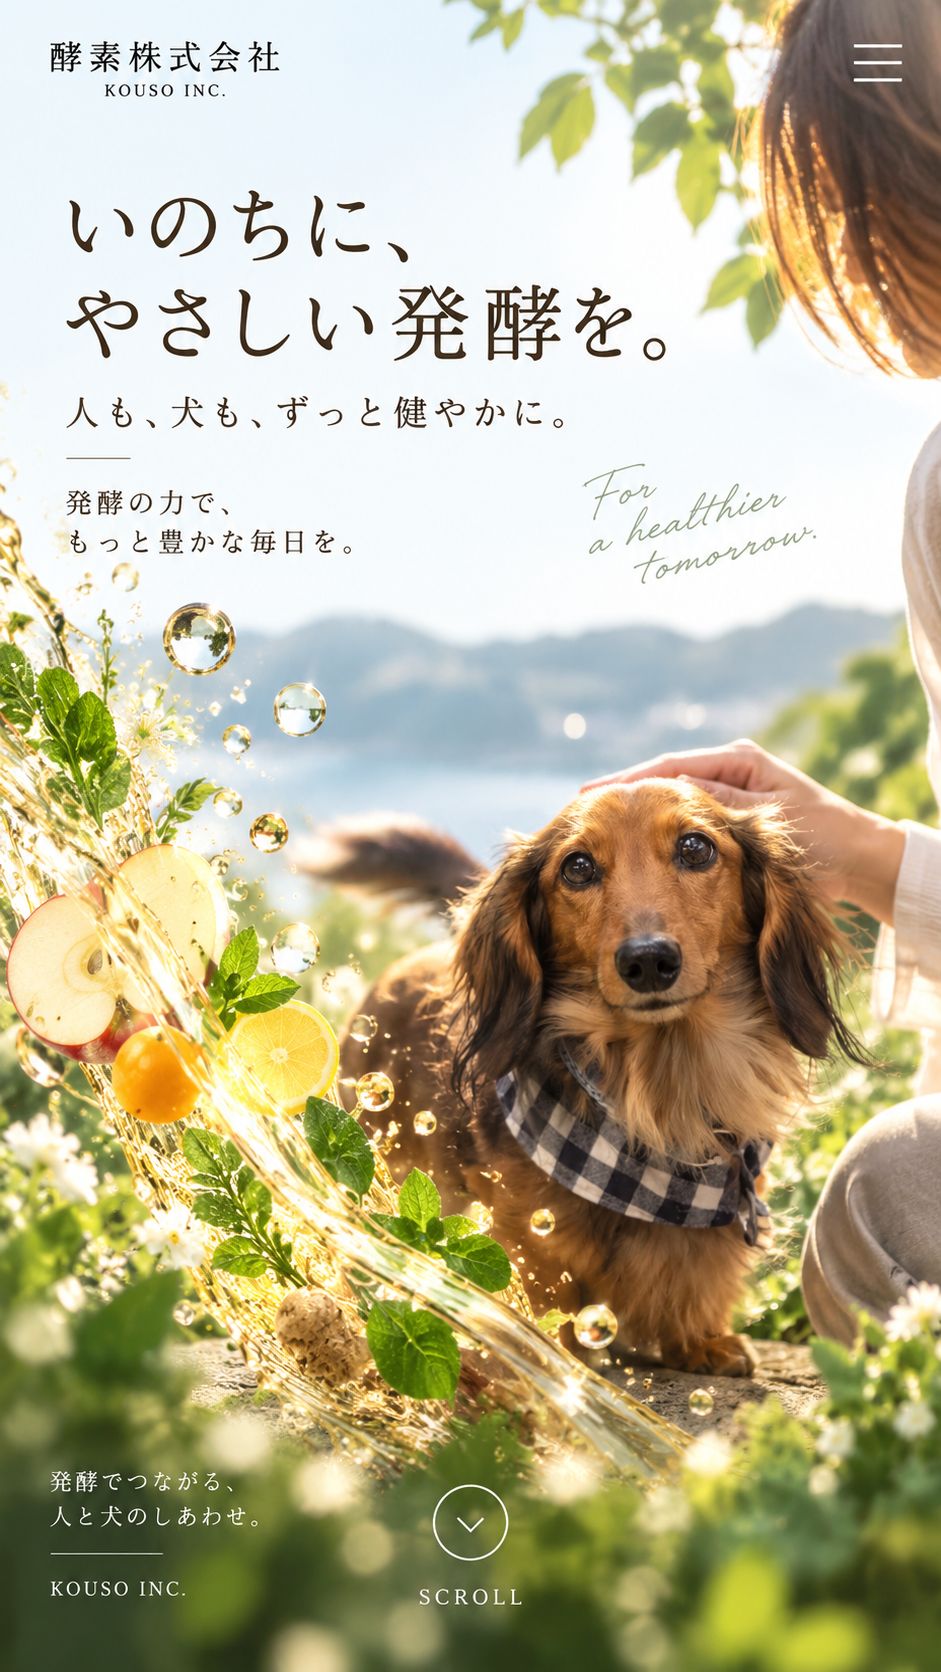
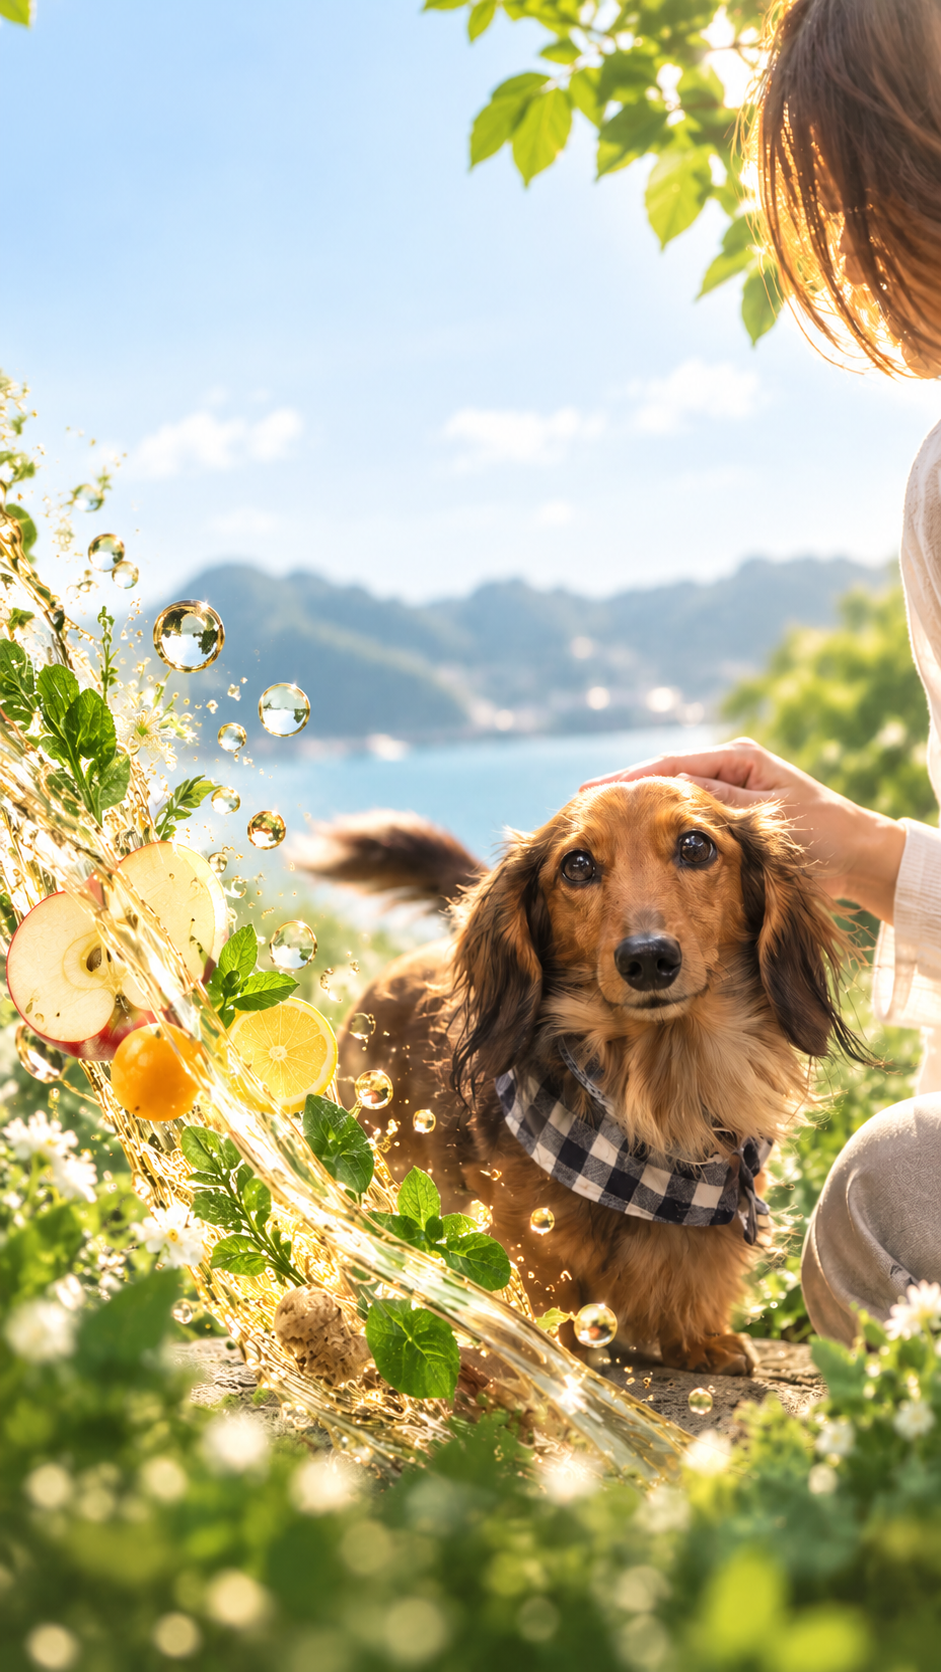
Use clean mobile hero artwork

diff --git a/home.css b/home.css
@@ -488,6 +488,10 @@ body.is-ready .hero-line:nth-child(2) { animation-delay: 0.38s; }
   opacity: 0.5;
 }
 
+.hero-mobile-message {
+  display: none;
+}
+
 .home:not(.menu-open) .gh:not(.is-scrolled) .gh-nav a {
   color: #203026;
 }
@@ -1650,7 +1654,114 @@ a:hover .btn-circle i::after {
   }
 
   .home:not(.menu-open) .gh:not(.is-scrolled) .gh-logo {
-    visibility: hidden;
+    color: #302013;
+    display: grid;
+    font-family: var(--serif);
+    font-size: 1rem;
+    letter-spacing: 0.16em;
+    line-height: 1.25;
+    visibility: visible;
+  }
+
+  .home:not(.menu-open) .gh:not(.is-scrolled) .gh-logo img { display: none; }
+
+  .home:not(.menu-open) .gh:not(.is-scrolled) .gh-logo::before { content: "酵素株式会社"; }
+
+  .home:not(.menu-open) .gh:not(.is-scrolled) .gh-logo::after {
+    content: "KOUSO INC.";
+    font-family: var(--en);
+    font-size: 0.46rem;
+    font-weight: 600;
+    letter-spacing: 0.25em;
+    text-align: center;
+  }
+
+  .hero-mobile-message {
+    color: #472c18;
+    display: block;
+    inset: 0;
+    padding: clamp(6.4rem, 15vh, 8rem) 1.65rem 1.6rem;
+    pointer-events: none;
+    position: absolute;
+    z-index: 3;
+  }
+
+  .hero-mobile-message h2 {
+    font-family: var(--serif);
+    font-size: clamp(2rem, 9vw, 2.45rem);
+    font-weight: 400;
+    letter-spacing: 0.06em;
+    line-height: 1.5;
+    margin: 0;
+  }
+
+  .hero-mobile-lead,
+  .hero-mobile-note,
+  .hero-mobile-bottom {
+    font-family: var(--serif);
+    letter-spacing: 0.08em;
+  }
+
+  .hero-mobile-lead { font-size: 0.93rem; margin-top: 0.55rem; }
+
+  .hero-mobile-message > i {
+    background: #6f563d;
+    display: block;
+    height: 1px;
+    margin: 1.15rem 0 0.8rem;
+    width: 2.8rem;
+  }
+
+  .hero-mobile-note { font-size: 0.8rem; line-height: 1.75; }
+
+  .hero-mobile-en {
+    color: #78906b;
+    font-family: cursive;
+    font-size: 1.1rem;
+    font-style: italic;
+    left: 61%;
+    line-height: 1.2;
+    position: absolute;
+    top: 30.5%;
+    transform: rotate(-7deg);
+  }
+
+  .hero-mobile-bottom {
+    bottom: 4.2rem;
+    color: #fff;
+    font-size: 0.72rem;
+    left: 1.65rem;
+    line-height: 1.75;
+    position: absolute;
+    text-shadow: 0 1px 6px rgba(22, 39, 16, 0.45);
+  }
+
+  .hero-mobile-message a {
+    align-items: center;
+    bottom: 1.55rem;
+    color: #fff;
+    display: flex;
+    flex-direction: column;
+    font-family: var(--en);
+    font-size: 0.68rem;
+    gap: 0.45rem;
+    left: 50%;
+    letter-spacing: 0.2em;
+    pointer-events: auto;
+    position: absolute;
+    transform: translateX(-50%);
+  }
+
+  .hero-mobile-message a span {
+    align-items: center;
+    border: 1px solid rgba(255, 255, 255, 0.9);
+    border-radius: 50%;
+    display: flex;
+    font-size: 1.15rem;
+    height: 2.8rem;
+    justify-content: center;
+    letter-spacing: 0;
+    width: 2.8rem;
   }
 
   .home:not(.menu-open) .gh:not(.is-scrolled) .gh-burger span {

diff --git a/index.html b/index.html
@@ -12,7 +12,7 @@
   <link
     href="https://fonts.googleapis.com/css2?family=Manrope:wght@400;500;600;700;800&family=Noto+Sans+JP:wght@400;500;700;900&family=Noto+Serif+JP:wght@400;500;600&display=swap"
     rel="stylesheet" />
-  <link rel="stylesheet" href="home.css?v=20260913-2" />
+  <link rel="stylesheet" href="home.css?v=20260913-3" />
 </head>
 
 <body class="home">
@@ -64,6 +64,15 @@
         </h1>
         <p class="hero-en">Enabling the power that already exists.</p>
         <p class="hero-keywords">Fermentation <i>×</i> Pet Wellness <i>×</i> Product Development</p>
+      </div>
+      <div class="hero-mobile-message" aria-hidden="true">
+        <h2>いのちに、<br />やさしい発酵を。</h2>
+        <p class="hero-mobile-lead">人も、犬も、ずっと健やかに。</p>
+        <i></i>
+        <p class="hero-mobile-note">発酵の力で、<br />もっと豊かな毎日を。</p>
+        <p class="hero-mobile-en">For a healthier<br />tomorrow.</p>
+        <p class="hero-mobile-bottom">発酵でつながる、<br />人と犬のしあわせ。</p>
+        <a href="#mission" tabindex="-1"><span>⌄</span>SCROLL</a>
       </div>
       <div class="hero-foot">
         <a class="scroll-cue" href="#mission"><span>Scroll</span><i></i></a>
